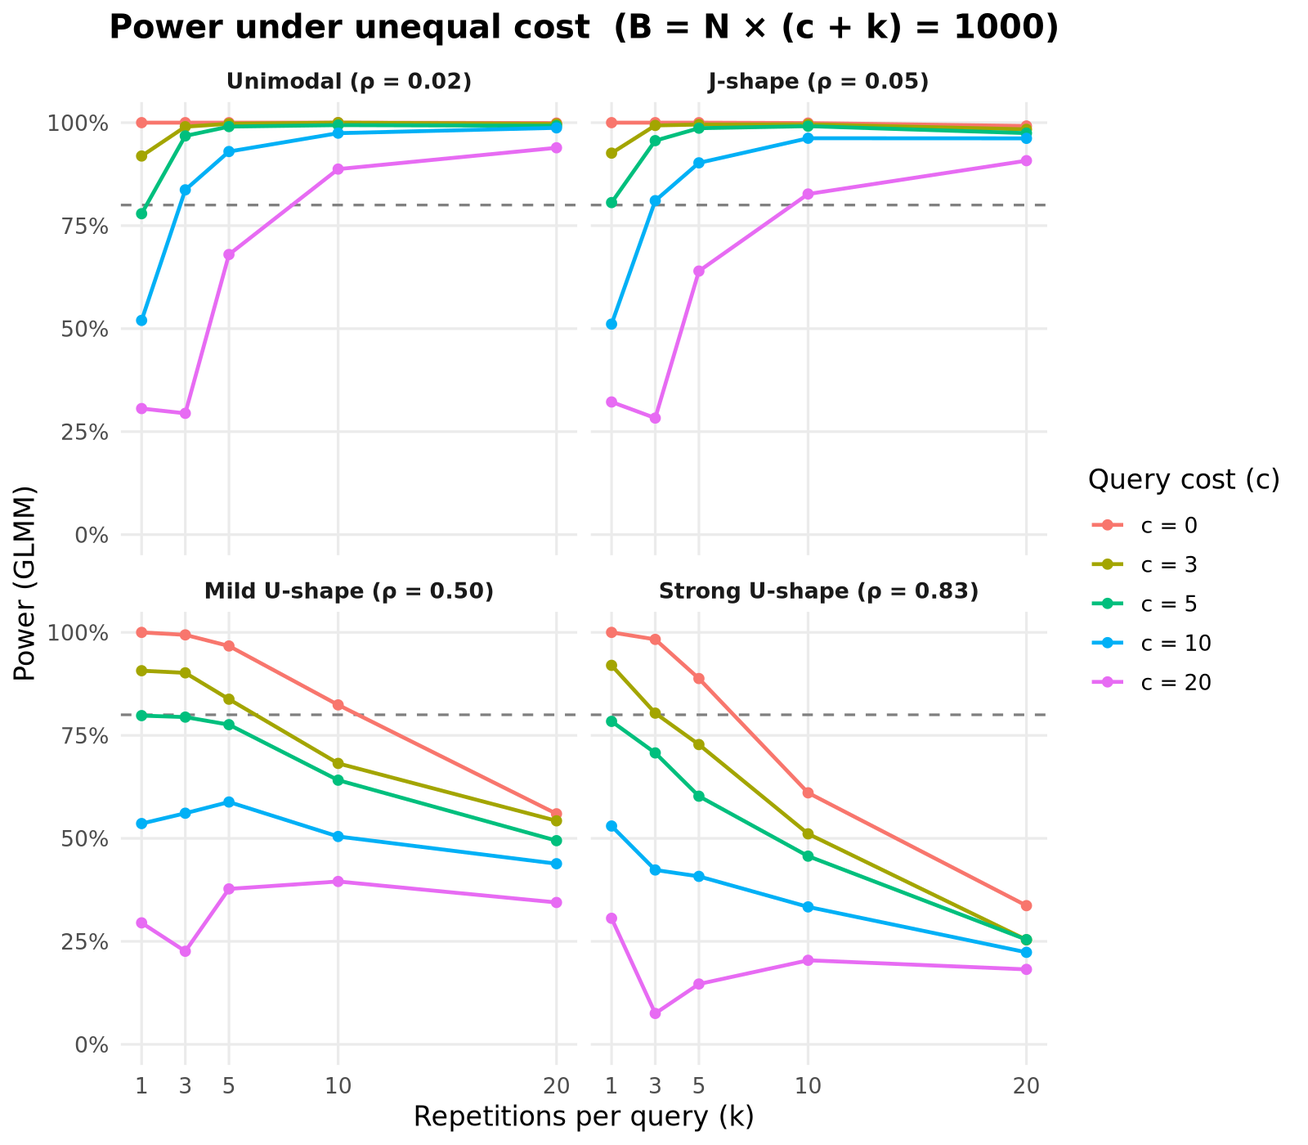
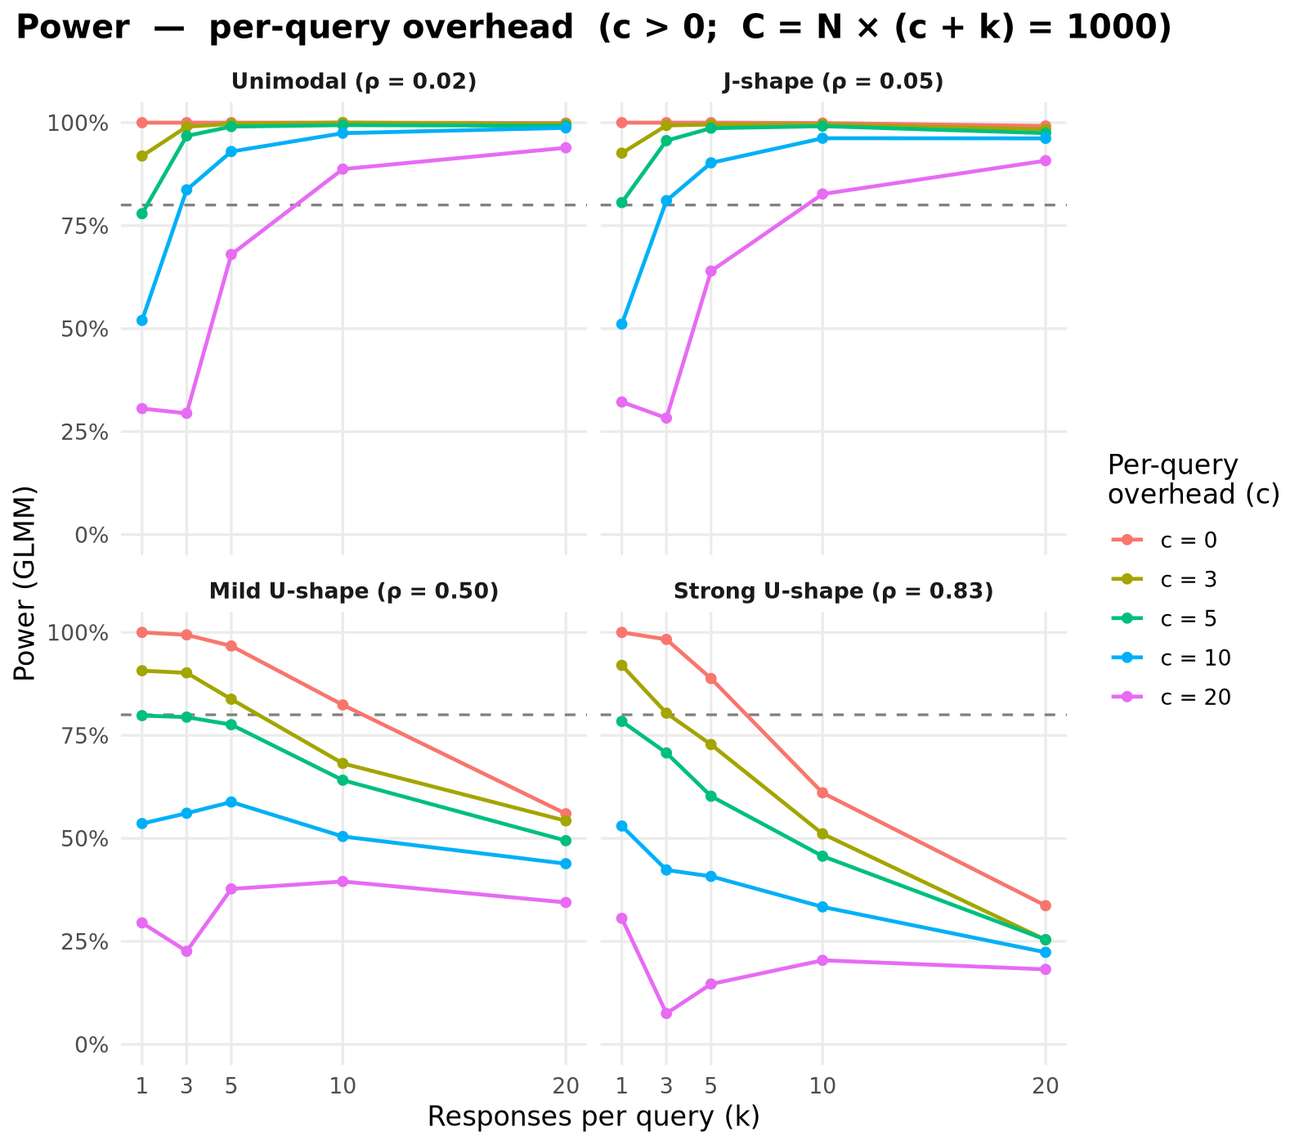
Reframe cost model as C = N x (c + k); drop k* and design-effect references
- One cost model stated once: every response costs one unit, each query an
  overhead c (in response units). Case 1: c = 0 (C = N x k). Case 2: c > 0
  (C = N x (c + k)). Single budget symbol C; k = responses per query.
- Remove the analytic optimum k* and the Kish/Cochran/Raudenbush references
  from the calculator and the simulation script; Case 2 is reported
  empirically (best k per scenario and overhead).
- Calculator: remove the query-cost input; retitle tab 2 "Multiple responses
  per query (Beta Binomial)"; takeaways aligned with the c = 0 / c > 0 framing.
- Figures retitled accordingly; opt3 table now k_best/power_best only.
- Remove supplementary_methods_results.md (superseded; contradicted the
  simplified framing).

diff --git a/proportion-calculator/index.html b/proportion-calculator/index.html
@@ -144,12 +144,12 @@ sup a{color:var(--accent-ink);font-size:0.75em;text-decoration:none;}
 <header>
   <p class="eyebrow">Sample size calculator · Early-stage LLM validation studies</p>
   <h1>How many queries are enough?</h1>
-  <p class="lede">Companion calculator to the <i>JMIR AI</i> editorial <b>How Many Queries Are Enough? Sample Size Calculations in Early-Stage LLM Validation</b>. Test whether the proportion of acceptable LLM responses, as rated by domain experts, exceeds a pre-defined absolute performance threshold p₀. Use the <b>one-proportion</b> tab when each user query receives one LLM response (the design in the editorial), and the <b>repetitions</b> tab when each query receives k LLM responses (Appendix). Copy-ready R and Python code is generated for every result.</p>
+  <p class="lede">Companion calculator to the <i>JMIR AI</i> editorial <b>How Many Queries Are Enough? Sample Size Calculations in Early-Stage LLM Validation</b>. Test whether the proportion of acceptable LLM responses, as rated by domain experts, exceeds a pre-defined absolute performance threshold p₀. Use the <b>one-proportion</b> tab when each user query receives one LLM response (the design in the editorial), and the <b>multiple responses per query</b> tab when each query receives k LLM responses (Appendix). Copy-ready R and Python code is generated for every result.</p>
 </header>
 
 <nav class="tab-nav" role="tablist" aria-label="Study design">
   <button class="tab-btn is-active" role="tab" aria-selected="true" aria-controls="tab1" id="tab-btn-1" data-tab="tab1">One-sample proportion test<small>one LLM response per query</small></button>
-  <button class="tab-btn" role="tab" aria-selected="false" aria-controls="tab2" id="tab-btn-2" data-tab="tab2">Repetitions (Beta Binomial)<small>k LLM responses per query</small></button>
+  <button class="tab-btn" role="tab" aria-selected="false" aria-controls="tab2" id="tab-btn-2" data-tab="tab2">Multiple responses per query (Beta Binomial)<small>k LLM responses per query</small></button>
 </nav>
 
 <div id="tab1" class="tab-panel is-active" role="tabpanel" aria-labelledby="tab-btn-1">
@@ -224,7 +224,7 @@ sup a{color:var(--accent-ink);font-size:0.75em;text-decoration:none;}
 <section>
   <h2>Assumptions</h2>
   <dl class="assume">
-    <div><dt>One LLM response per query, and query-response pairs are independent.</dt><dd>Each query-response pair is an independent Bernoulli trial. <span class="why">This requires that the LLM-based system produces sufficiently consistent responses for one response per query to be adequate (e.g., confirmed by assessing semantic repeatability a priori). If each query receives several LLM responses, use the <a href="#tab-btn-2" data-goto="tab2">repetitions</a> tab.</span></dd></div>
+    <div><dt>One LLM response per query, and query-response pairs are independent.</dt><dd>Each query-response pair is an independent Bernoulli trial. <span class="why">This requires that the LLM-based system produces sufficiently consistent responses for one response per query to be adequate (e.g., confirmed by assessing semantic repeatability a priori). If each query receives several LLM responses, use the <a href="#tab-btn-2" data-goto="tab2">multiple responses per query</a> tab.</span></dd></div>
     <div><dt>Each LLM response has one binary reference label.</dt><dd><span class="why">If several domain experts rate the same response, their ratings must be combined into one pre-specified label (e.g., consensus, majority vote) before analysis; the unit of analysis is the query-response pair, not the individual rating. Rating criteria are defined before any responses are seen.</span></dd></div>
     <div><dt>User queries are independent and randomly drawn from the population of potential queries for the use case.</dt><dd><span class="why">If the queries are easier or differently distributed than those expected in the intended use context, the estimated proportion applies to the evaluation set, not to that context.</span></dd></div>
     <div><dt>N is fixed before data collection.</dt><dd><span class="why">Stopping early or adding query-response pairs based on interim results inflates the true type I error rate.</span></dd></div>
@@ -282,7 +282,7 @@ sup a{color:var(--accent-ink);font-size:0.75em;text-decoration:none;}
         <p class="hint">Unique user queries in the evaluation set.</p>
       </div>
       <div class="field">
-        <label for="b-k">Repetitions per query (k)</label>
+        <label for="b-k">Responses per query (k)</label>
         <input id="b-k" type="number" min="1" max="1000" step="1" value="3" inputmode="numeric">
         <p class="hint">Number of LLM responses generated and rated for each query. k = 1 is the one-sample proportion design.</p>
       </div>
@@ -290,11 +290,6 @@ sup a{color:var(--accent-ink);font-size:0.75em;text-decoration:none;}
         <label for="b-rho">Intra-query correlation (ρ)</label>
         <input id="b-rho" type="number" min="0" max="0.999" step="0.01" value="0.10" inputmode="decimal">
         <p class="hint">Correlation between the ratings of two LLM responses to the same query. 0 = every query equally difficult; 0.02–0.1 when difficulty is Unimodal or J-shaped; ≥ 0.5 when most queries are consistently acceptable or consistently unacceptable (U-shaped). See <a href="#choosing-rho">choosing ρ</a>.</p>
-      </div>
-      <div class="field">
-        <label for="b-cost">Cost of a query (c, in repetitions)</label>
-        <input id="b-cost" type="number" min="0" max="100000" step="1" value="0" inputmode="decimal">
-        <p class="hint">Optional. Cost of collecting one additional user query, in units of one repetition (one LLM response and its rating). 0 = queries cost nothing beyond their repetitions. Used only to report the cost-optimal k.</p>
       </div>
     </div>
   </form>
@@ -324,8 +319,8 @@ sup a{color:var(--accent-ink);font-size:0.75em;text-decoration:none;}
 
 <section>
   <h2>Multiple LLM responses per query</h2>
-  <p>Given the stochastic nature of LLM outputs, researchers may generate several LLM responses per user query (repetitions). Queries differ in difficulty, so the k ratings for the same query are not independent: a difficult query tends to yield unacceptable responses every time, an easy one acceptable responses every time. Each query <span class="m">i</span> has its own acceptability probability <span class="m">p<sub>i</sub></span>, modelled as <span class="m">p<sub>i</sub> ~ Beta(a, b)</span>, with <span class="m">X<sub>i</sub> | p<sub>i</sub> ~ Binomial(k, p<sub>i</sub>)</span> acceptable responses — a Beta Binomial distribution. The estimand is the overall proportion of acceptable LLM responses <span class="m">p = a/(a+b)</span>; the intra-query correlation <span class="m">ρ = 1/(a+b+1)</span> measures how much queries differ in difficulty.</p>
-  <p>Treating the N × k ratings as independent understates their variance. The correct variance is larger by the <em>design effect</em>, or variance inflation factor (VIF), a standard result for clustered binary outcomes:<sup><a href="#ref6">[6]</a><a href="#ref7">[7]</a></sup></p>
+  <p>Given the stochastic nature of LLM outputs, researchers may generate several LLM responses per user query. Queries differ in difficulty, so the k ratings for the same query are not independent: a difficult query tends to yield unacceptable responses every time, an easy one acceptable responses every time. Each query <span class="m">i</span> has its own acceptability probability <span class="m">p<sub>i</sub></span>, modelled as <span class="m">p<sub>i</sub> ~ Beta(a, b)</span>, with <span class="m">X<sub>i</sub> | p<sub>i</sub> ~ Binomial(k, p<sub>i</sub>)</span> acceptable responses — a Beta Binomial distribution. The estimand is the overall proportion of acceptable LLM responses <span class="m">p = a/(a+b)</span>; the intra-query correlation <span class="m">ρ = 1/(a+b+1)</span> measures how much queries differ in difficulty.</p>
+  <p>Treating the N × k ratings as independent understates their variance. The correct variance is larger by the variance inflation factor (VIF), a standard result for clustered binary outcomes:<sup><a href="#ref6">[6]</a></sup></p>
   <pre class="formula">VIF = 1 + (k − 1)·ρ</pre>
   <p>so N × k LLM responses carry the information of only N × k / VIF independent query-response pairs. The calculator applies this correction to the Wilson score formulas of the first tab:</p>
   <pre class="formula">N_iid  = ( z_α·√(p₀q₀) + z_β·√(p₁q₁) )² / (p₁ − p₀)²   query-response pairs needed if independent
@@ -337,13 +332,12 @@ reject H₀ if  X ≥ ⌈ N·k·p₀ + z_α·√(N·k·p₀q₀·VIF) ⌉</pre>
 
 <section>
   <h2>Key takeaways</h2>
+  <p>Think of the cost of a design as N × (c + k): every LLM response costs one unit, and each query additionally costs c units to obtain (recruiting a user, collecting a representative query, setting up its evaluation). For example, c = 5 means that obtaining one new query costs as much as generating and rating five responses.</p>
   <ol class="takeaways">
-    <li><b>Given equal costs, spend the budget on queries, not repetitions.</b> For a fixed number of rated LLM responses, k = 1 maximises power under every distribution of query difficulty, because VIF ≥ 1.</li>
+    <li><b>When responses are the only cost (c = 0), spend the budget on queries, not on additional responses per query.</b> For a fixed number of rated LLM responses, k = 1 maximises power under every distribution of query difficulty, because VIF ≥ 1.</li>
     <li><b>When k = 1, the Wilson score test is valid regardless of ρ.</b> Each query-response pair is then an independent observation with probability p; nothing needs correcting.</li>
     <li><b>When k > 1, the uncorrected Wilson score test is invalid when query difficulty is U-shaped.</b> Its type I error rate is 1 − Φ(z_α/√VIF): with k = 5, a nominal 5% test runs at 6.7% when ρ = 0.05 but at 17% when ρ = 0.5. When difficulty is Unimodal or J-shaped (ρ ≲ 0.05) the inflation is modest.</li>
-    <li><b>Given unequal costs, repetitions add value only when queries are expensive relative to repetitions and query difficulty is Unimodal or J-shaped (low ρ).</b> If a query costs c repetitions, the cost-optimal number of repetitions is<sup><a href="#ref8">[8]</a></sup>
-      <pre class="formula">k* = √( c · (1 − ρ) / ρ )</pre>
-      For c = 10: k* ≈ 14 when ρ = 0.05, ≈ 3 when ρ = 0.5, ≈ 1.4 when ρ = 0.83. Enter c above and the result panel reports k*.</li>
+    <li><b>When each new query carries a fixed overhead (c > 0), adding responses per query increases power only when that overhead is large and query difficulty is Unimodal or J-shaped (low ρ).</b> With U-shaped difficulty (ρ ≥ 0.5), one response per query remains the best or nearly the best design even when a query costs as much as twenty responses.</li>
   </ol>
 </section>
 
@@ -355,13 +349,13 @@ reject H₀ if  X ≥ ⌈ N·k·p₀ + z_α·√(N·k·p₀q₀·VIF) ⌉</pre>
     <div><dt>ρ ≈ 0.02–0.1 (Unimodal or J-shaped)</dt><dd>Difficulty varies but most queries have acceptability probabilities near the overall proportion. <span class="why">Beta(38, 2) gives ρ = 0.02; Beta(19, 1) gives ρ = 0.05.</span></dd></div>
     <div><dt>ρ ≥ 0.5 (U-shaped)</dt><dd>Most queries are consistently acceptable or consistently unacceptable. <span class="why">Beta(0.95, 0.05) gives ρ = 0.5. Typical when the LLM-based system is highly consistent and rating is strict.</span></dd></div>
   </dl>
-  <p>With pilot data containing k responses per query, ρ can be estimated by fitting a Beta Binomial model (e.g., <code>glmmTMB</code> in R, <code>family = betabinomial</code>; ρ̂ = 1/(1 + φ̂) where φ̂ is the estimated precision).<sup><a href="#ref9">[9]</a></sup> When uncertain, plan with a larger ρ; it is the conservative choice.</p>
+  <p>With pilot data containing k responses per query, ρ can be estimated by fitting a Beta Binomial model (e.g., <code>glmmTMB</code> in R, <code>family = betabinomial</code>; ρ̂ = 1/(1 + φ̂) where φ̂ is the estimated precision).<sup><a href="#ref7">[7]</a></sup> When uncertain, plan with a larger ρ; it is the conservative choice.</p>
 </section>
 
 <section>
   <h2>Assumptions</h2>
   <dl class="assume">
-    <div><dt>Every query receives the same number of repetitions k.</dt><dd><span class="why">With unequal k, use the harmonic mean of k; the result is slightly conservative.</span></dd></div>
+    <div><dt>Every query receives the same number of responses k.</dt><dd><span class="why">With unequal k, use the harmonic mean of k; the result is slightly conservative.</span></dd></div>
     <div><dt>LLM responses to the same query are independent given the query.</dt><dd><span class="why">Shared conversation history or caching makes responses more alike than ρ allows and understates the true VIF.</span></dd></div>
     <div><dt>ρ is a planning constant.</dt><dd><span class="why">The analysis of the collected data should estimate ρ (e.g., a Beta Binomial GLMM); realised power is then somewhat below the planned value. Set the target power a few points above the minimum required.</span></dd></div>
     <div><dt>The effective sample size is large enough for the normal approximation.</dt><dd><span class="why">Require N·k·(1 − p₀)/VIF ≥ 10 — for p₀ = 0.90, at least 100 effectively independent query-response pairs (N × k / VIF). Below roughly 60, a Beta Binomial GLMM fitted to the collected data becomes markedly conservative and often fails to converge.</span></dd></div>
@@ -372,10 +366,8 @@ reject H₀ if  X ≥ ⌈ N·k·p₀ + z_α·√(N·k·p₀q₀·VIF) ⌉</pre>
 <section>
   <h2>References</h2>
   <ol class="refs" start="6">
-    <li id="ref6"><span class="ref-cite">Kish 1965</span> — Kish, L. (1965). <i>Survey Sampling</i>. Wiley, New York. (Design effect.)</li>
-    <li id="ref7"><span class="ref-cite">Donner, Birkett &amp; Buck 1981</span> — Donner, A., Birkett, N., &amp; Buck, C. (1981). Randomization by cluster: sample size requirements and analysis. <i>American Journal of Epidemiology</i>, 114(6), 906–914. <a href="https://doi.org/10.1093/oxfordjournals.aje.a113261" target="_blank" rel="noopener">doi:10.1093/oxfordjournals.aje.a113261</a> (VIF = 1 + (k − 1)ρ for clustered binary outcomes.)</li>
-    <li id="ref8"><span class="ref-cite">Raudenbush 1997</span> — Raudenbush, S. W. (1997). Statistical analysis and optimal design for cluster randomized trials. <i>Psychological Methods</i>, 2(2), 173–185. <a href="https://doi.org/10.1037/1082-989X.2.2.173" target="_blank" rel="noopener">doi:10.1037/1082-989X.2.2.173</a> (Cost-optimal cluster size.)</li>
-    <li id="ref9"><span class="ref-cite">McGillycuddy et al. 2025</span> — McGillycuddy, M., Warton, D. I., Popovic, G., et al. (2025). Parsimoniously fitting large multivariate random effects in glmmTMB. <i>Journal of Statistical Software</i>, 112. <a href="https://doi.org/10.18637/jss.v112.i01" target="_blank" rel="noopener">doi:10.18637/jss.v112.i01</a></li>
+    <li id="ref6"><span class="ref-cite">Donner, Birkett &amp; Buck 1981</span> — Donner, A., Birkett, N., &amp; Buck, C. (1981). Randomization by cluster: sample size requirements and analysis. <i>American Journal of Epidemiology</i>, 114(6), 906–914. <a href="https://doi.org/10.1093/oxfordjournals.aje.a113261" target="_blank" rel="noopener">doi:10.1093/oxfordjournals.aje.a113261</a> (VIF = 1 + (k − 1)ρ for clustered binary outcomes.)</li>
+    <li id="ref7"><span class="ref-cite">McGillycuddy et al. 2025</span> — McGillycuddy, M., Warton, D. I., Popovic, G., et al. (2025). Parsimoniously fitting large multivariate random effects in glmmTMB. <i>Journal of Statistical Software</i>, 112. <a href="https://doi.org/10.18637/jss.v112.i01" target="_blank" rel="noopener">doi:10.18637/jss.v112.i01</a></li>
   </ol>
 </section>
 
@@ -383,7 +375,7 @@ reject H₀ if  X ≥ ⌈ N·k·p₀ + z_α·√(N·k·p₀q₀·VIF) ⌉</pre>
 </div><!-- /tab2 -->
 
 <footer>
-  All calculations run in your browser — nothing is sent anywhere. The R and Python code above reproduces every result exactly and can be pasted directly into a session to verify independently. When reporting a sample size calculation, specify the test, p₀, p₁, α, the target power, N (and k and ρ for repetitions), and the critical count, so that it can be reproduced.
+  All calculations run in your browser — nothing is sent anywhere. The R and Python code above reproduces every result exactly and can be pasted directly into a session to verify independently. When reporting a sample size calculation, specify the test, p₀, p₁, α, the target power, N (and k and ρ when k > 1), and the critical count, so that it can be reproduced.
 </footer>
 
 </div><!-- /page -->
@@ -681,7 +673,6 @@ function naiveOnClustered(n,k,p0,p1,alpha,rho){
   var truePow=s1===0?(p1>p0?1:0):normCdf(((p1-p0)*Math.sqrt(N)-za*s0)/(s1*Math.sqrt(vif)));
   return{n:n,N:N,crit:w.crit,statedPower:w.power,truePower:Math.max(0,truePow),trueAlpha:Math.max(0,1-normCdf(za/Math.sqrt(vif)))};
 }
-function kStar(cost,rho){return Math.sqrt(cost*(1-rho)/rho);}
 
 function genR2(v,rB,rN){
   var c='# ',L=[];
@@ -690,7 +681,7 @@ function genR2(v,rB,rN){
   L.push('p0    <- '+v.p0+'   '+c+'pre-defined performance threshold (H₀: p ≤ p₀)');
   L.push('p1    <- '+v.p1+'   '+c+'expected true proportion (H₁: p = p₁)');
   L.push('alpha <- '+v.alpha+'  '+c+'one-sided type I error rate');
-  L.push('k     <- '+v.k+'L     '+c+'repetitions (LLM responses) per query');
+  L.push('k     <- '+v.k+'L     '+c+'LLM responses per query');
   L.push('rho   <- '+v.rho+'   '+c+'intra-query correlation');
   if(v.mode==='n') L.push('target <- '+v.target+'  '+c+'target power');
   else             L.push('N <- '+v.n+'L      '+c+'queries (fixed)');
@@ -726,12 +717,6 @@ function genR2(v,rB,rN){
   L.push('');
   L.push('cat(sprintf("Uncorrected:   claims power %.4f at alpha %s; actually power %.4f at alpha %.4f\\n",');
   L.push('            claimed_power, alpha, actual_power, actual_alpha))');
-  if(v.cost>0&&v.rho>0){
-    L.push('');
-    L.push(c+'── Cost-optimal repetitions per query (a query costs c repetitions) ──');
-    L.push('c_query <- '+v.cost);
-    L.push('k_star  <- sqrt(c_query * (1 - rho) / rho)      '+c+fR(kStar(v.cost,v.rho),2));
-  }
   return L.join('\n');
 }
 
@@ -745,7 +730,7 @@ function genPy2(v,rB,rN){
   L.push('p0    = '+v.p0+'   '+c+'pre-defined performance threshold (H₀: p ≤ p₀)');
   L.push('p1    = '+v.p1+'   '+c+'expected true proportion (H₁: p = p₁)');
   L.push('alpha = '+v.alpha+'  '+c+'one-sided type I error rate');
-  L.push('k     = '+v.k+'      '+c+'repetitions (LLM responses) per query');
+  L.push('k     = '+v.k+'      '+c+'LLM responses per query');
   L.push('rho   = '+v.rho+'   '+c+'intra-query correlation');
   if(v.mode==='n') L.push('target = '+v.target+'  '+c+'target power');
   else             L.push('N = '+v.n+'      '+c+'queries (fixed)');
@@ -779,12 +764,6 @@ function genPy2(v,rB,rN){
   L.push('actual_alpha  = norm.sf(za / sqrt(VIF))                                                 '+c+fR(rN.trueAlpha)+' (true type I error rate)');
   L.push('');
   L.push('print(f"Uncorrected:   claims power {claimed_power:.4f} at alpha {alpha}; actually power {actual_power:.4f} at alpha {actual_alpha:.4f}")');
-  if(v.cost>0&&v.rho>0){
-    L.push('');
-    L.push(c+'── Cost-optimal repetitions per query (a query costs c repetitions) ──');
-    L.push('c_query = '+v.cost);
-    L.push('k_star  = sqrt(c_query * (1 - rho) / rho)       '+c+fR(kStar(v.cost,v.rho),2));
-  }
   return L.join('\n');
 }
 
@@ -793,8 +772,7 @@ function readInputs2(){
   var v={mode:mode,p0:parseFloat($('b-p0').value),p1:parseFloat($('b-p1').value),
     alpha:parseFloat($('b-alpha').value),target:parseFloat($('b-target').value),
     n:parseInt($('b-n').value,10),k:parseInt($('b-k').value,10),
-    rho:parseFloat($('b-rho').value),cost:parseFloat($('b-cost').value)};
-  if(!(v.cost>=0))v.cost=0;
+    rho:parseFloat($('b-rho').value)};
   var errs=[];
   if(!(v.p0>0&&v.p0<1))errs.push('Threshold must be between 0 and 1.');
   if(!(v.p1>0&&v.p1<=1))errs.push('Expected proportion must be between 0 and 1.');
@@ -802,7 +780,7 @@ function readInputs2(){
   if(!(v.alpha>0&&v.alpha<1))errs.push('Significance level must be between 0 and 1.');
   if(mode==='n'&&!(v.target>0&&v.target<1))errs.push('Target power must be between 0 and 1.');
   if(mode==='power'&&!(Number.isInteger(v.n)&&v.n>=1))errs.push('Number of queries must be a positive whole number.');
-  if(!(Number.isInteger(v.k)&&v.k>=1))errs.push('Repetitions per query must be a positive whole number.');
+  if(!(Number.isInteger(v.k)&&v.k>=1))errs.push('Responses per query must be a positive whole number.');
   if(!(v.rho>=0&&v.rho<1))errs.push('Correlation ρ must be at least 0 and below 1.');
   v.errors=errs;return v;
 }
@@ -848,24 +826,10 @@ function render2(){
 
   var dec=rB.crit>rB.N
     ?'Cannot reject H₀ with this design — increase the number of queries.'
-    :'Evaluate <b>'+fN(rB.n)+'</b> queries × <b>'+v.k+'</b> repetitions = <b>'+fN(rB.N)+'</b> LLM responses. Reject H₀ if at least <b>'+fN(rB.crit)+'</b> ('+fP(rB.crit/rB.N)+') are rated acceptable.';
+    :'Evaluate <b>'+fN(rB.n)+'</b> queries × <b>'+v.k+'</b> responses = <b>'+fN(rB.N)+'</b> LLM responses. Reject H₀ if at least <b>'+fN(rB.crit)+'</b> ('+fP(rB.crit/rB.N)+') are rated acceptable.';
   html+='<p class="decision">'+dec+'</p>';
   html+='<p class="vif-line">VIF = 1 + (k − 1)·ρ = <b>'+fV(rB.vif,3)+'</b> &nbsp;·&nbsp; effectively independent query-response pairs N × k / VIF = <b>'+fN(Math.round(rB.nEff))+'</b></p>';
-
-  var costMsg;
-  if(v.cost>0){
-    if(v.rho>0){
-      var ks=kStar(v.cost,v.rho);
-      costMsg='A query costs '+esc(v.cost)+' repetitions: cost-optimal k* = √(c(1−ρ)/ρ) = <b>'+fV(ks,1)+'</b>'+(ks<1.5?' — do not repeat queries.':' — use about '+Math.round(ks)+' repetitions per query.');
-    } else {
-      costMsg='With ρ = 0 a repetition is worth as much as a new query, so any larger k is cheaper — but ρ = 0 is rarely realistic; enter a positive ρ.';
-    }
-  } else {
-    costMsg=v.k>1
-      ?'Queries cost nothing beyond their repetitions here, so k = 1 gives the most power per rated LLM response. Enter a query cost above to see when repetitions are worthwhile.'
-      :'k = 1 maximises power per rated LLM response whenever a new query costs no more than a repetition.';
-  }
-  html+='<p class="hint" style="margin:0">'+costMsg+'</p>';
+  if(v.k>1) html+='<p class="hint" style="margin:0">For the same number of rated LLM responses, one response per query (k = 1) would give the most power; k > 1 pays off only when obtaining a new query costs substantially more than an additional response and ρ is small.</p>';
 
   if(!clustered){
     html+='<div class="note"><b>No clustering penalty.</b> With '+(v.k===1?'k = 1':'ρ = 0')+', VIF = 1 and this is exactly the one-sample proportion test of the first tab.</div>';

diff --git a/README.md b/README.md
@@ -18,7 +18,7 @@ Two methods are computed side by side:
 
 Copy-ready R and Python code is generated for every result.
 
-A second tab, **Repetitions (Beta Binomial)**, covers studies that generate k LLM responses per query. It applies the variance inflation factor VIF = 1 + (k − 1)ρ (ρ = intra-query correlation) to the Wilson score formulas, shows what the uncorrected test would report versus what it actually delivers, and gives the cost-optimal number of repetitions per query.
+A second tab, **Multiple responses per query (Beta Binomial)**, covers studies that generate k LLM responses per query. It applies the variance inflation factor VIF = 1 + (k − 1)ρ (ρ = intra-query correlation) to the Wilson score formulas and shows what the uncorrected test would report versus what it actually delivers.
 
 ## Running it
 
